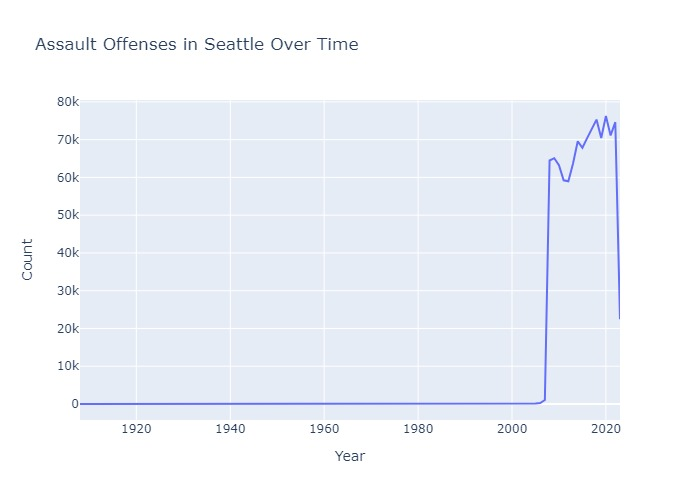
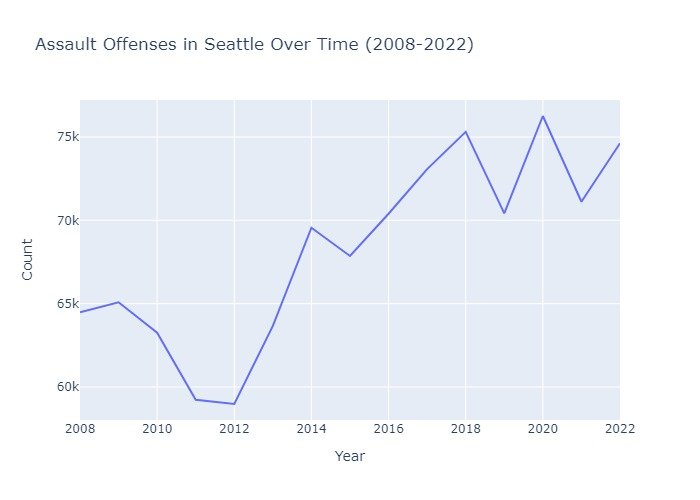
Fix code for first two research questions, add comments

diff --git a/assault_factors_2022.py b/assault_factors_2022.py
@@ -1,12 +1,18 @@
+"""
+Joey Kang, Eric Kim, and Anna Wang
+CSE 163
+Analyzes and plots Seattle Police Department crime data to determine what
+factors resulted in the greatest number of assault offenses in Seattle in 2022.
+"""
 import pandas as pd
-import geopandas as gpd
-import matplotlib.pyplot as plt
 import plotly.express as px
 
 
-# What factors resulted in the greatest amount of assault offenses in
-# Seattle in 2022?
-def plot_assault_factors_2022(data: pd.DataFrame) -> None:
+def plot_assaults_by_time_2022(data: pd.DataFrame) -> None:
+    """
+    Creates a bar chart of the assault offenses committed during each hour
+    during the day in 2022, using `data`, the SPD crime dataset.
+    """
     data = data[['Offense Start DateTime',
                  'Offense Parent Group']].dropna()
     data['Offense Start DateTime'] = \
@@ -32,26 +38,22 @@ def plot_assault_factors_2022(data: pd.DataFrame) -> None:
         )
     )
 
-    fig.write_image('./results/assault_factors_2022.jpg')
+    fig.write_image('./results/assaults_by_time_2022.jpg')
 
 
-def merge_data(shp_file: str, csv_file: str) -> gpd.GeoDataFrame:
-    geospatial_data = gpd.read_file(shp_file)
-    spd_data = pd.read_csv(csv_file)
-
-    # if doesnt work try how=inner or on
-    merged_gdf = geospatial_data.merge(spd_data, left_on='sector',
-                                       right_on='Sector', how='outer')
-    return merged_gdf
-
-
-def plot_geo_data(data: gpd.GeoDataFrame) -> None:
-    data.plot()
-    fig, ax = plt.subplots(1)
-    # data = data[['sector', 'geometry', 'Offense Parent Group']]
-    # data = data[data['Offense Parent Group'] == "ASSAULT OFFENSES"]
-    # data = data.dissolve(by='sector', aggfunc='count')
-    # print(data.head(10))
-    # data.plot(ax=ax, column='Count', legend=True)
-    # plt.title("Assault Offenses by Sector")
-    plt.savefig('./results/assault_offense_map.png')
+def plot_assaults_by_location_2022(data: pd.DataFrame) -> None:
+    """
+    Creates a bar chart of the assault offenses committed in each MCPP in 2022,
+    using `data`, the SPD crime dataset. MCPP stands for Micro-Community
+    Policing Plans and essentially refers to neighborhoods in Seattle.
+    """
+    data = data[['Offense Parent Group', 'MCPP']].dropna()
+    data = data[data['Offense Parent Group'] == "ASSAULT OFFENSES"]
+    data = (
+        data.groupby('MCPP')['MCPP'].count()
+        .reset_index(name="Count")
+    )
+    data = data.sort_values('Count', ascending=False)
+    fig = px.bar(data, x='MCPP', y='Count',
+                 title='Number of Assault Offenses Per MCPP')
+    fig.write_image('./results/assaults_by_location_2022.jpg')

diff --git a/assault_offenses_over_time.py b/assault_offenses_over_time.py
@@ -1,18 +1,30 @@
+"""
+Joey Kang, Eric Kim, and Anna Wang
+CSE 163
+Analyzes and plots Seattle Police Department crime data to determine how the
+incidence of assault offenses across Seattle has changed over time from 2008 to
+2022. We decided to filter down to these years because the datasheet says that
+the data is from 2008 to present, but the data from 2023 is incomplete because
+it is the current year.
+"""
 import pandas as pd
 import plotly.express as px
 
 
-# How has the incidence of assault offenses across Seattle changed over time
-# from 2008 to present?
 def plot_assault_offenses_over_time(data: pd.DataFrame) -> None:
+    """
+    Creates a line chart of the assault offenses committed over time from 2008
+    to 2022, using `data`, the SPD crime dataset.
+    """
     data = data[['Offense Start DateTime', 'Offense Parent Group']].dropna()
     data['Offense Start DateTime'] = pd.to_datetime(
         data['Offense Start DateTime'])
     data['Year'] = data['Offense Start DateTime'].dt.year.astype(int)
+    data = data[(data['Year'] >= 2008) & (data['Year'] <= 2022)]
     data = (
         data.groupby('Year')['Offense Parent Group'].count()
         .reset_index(name="Count")
     )
     fig = px.line(data, x='Year', y='Count',
-                  title='Assault Offenses in Seattle Over Time')
+                  title='Assault Offenses in Seattle Over Time (2008-2022)')
     fig.write_image('./results/assault_offenses_over_time.jpg')

diff --git a/main.py b/main.py
@@ -1,21 +1,28 @@
+"""
+Joey Kang, Eric Kim, and Anna Wang
+CSE 163
+Analyzes and plots Seattle Police Department crime data to reveal insights
+about assault offenses in the Seattle area. The dataset covers crimes from
+2008 to present and contains columns for various information relating to the
+crimes including the date and time of the offense, type of offense, and where
+it was committed (precinct, sector, beat, MCPP/neighborhood, address,
+longitude, and latitude).
+"""
 import pandas as pd
 
 from assault_offenses_over_time import plot_assault_offenses_over_time
-from assault_factors_2022 import plot_assault_factors_2022
-from assault_factors_2022 import merge_data
-from assault_factors_2022 import plot_geo_data
+from assault_factors_2022 import plot_assaults_by_time_2022
+from assault_factors_2022 import plot_assaults_by_location_2022
 
 
 DATASET = './data/SPD_Crime_Data__2008-Present.csv'
-GEO_DATASET = './data/Seattle_Police_Beats_2018-Present.shp'
 
 
 def main():
-    # data = pd.read_csv(DATASET)
-    # plot_assault_offenses_over_time(data)
-    # plot_assault_factors_2022(data)
-    geodata = merge_data(GEO_DATASET, DATASET)
-    plot_geo_data(geodata)
+    data = pd.read_csv(DATASET)
+    plot_assault_offenses_over_time(data)
+    plot_assaults_by_time_2022(data)
+    plot_assaults_by_location_2022(data)
 
 
 if __name__ == '__main__':
